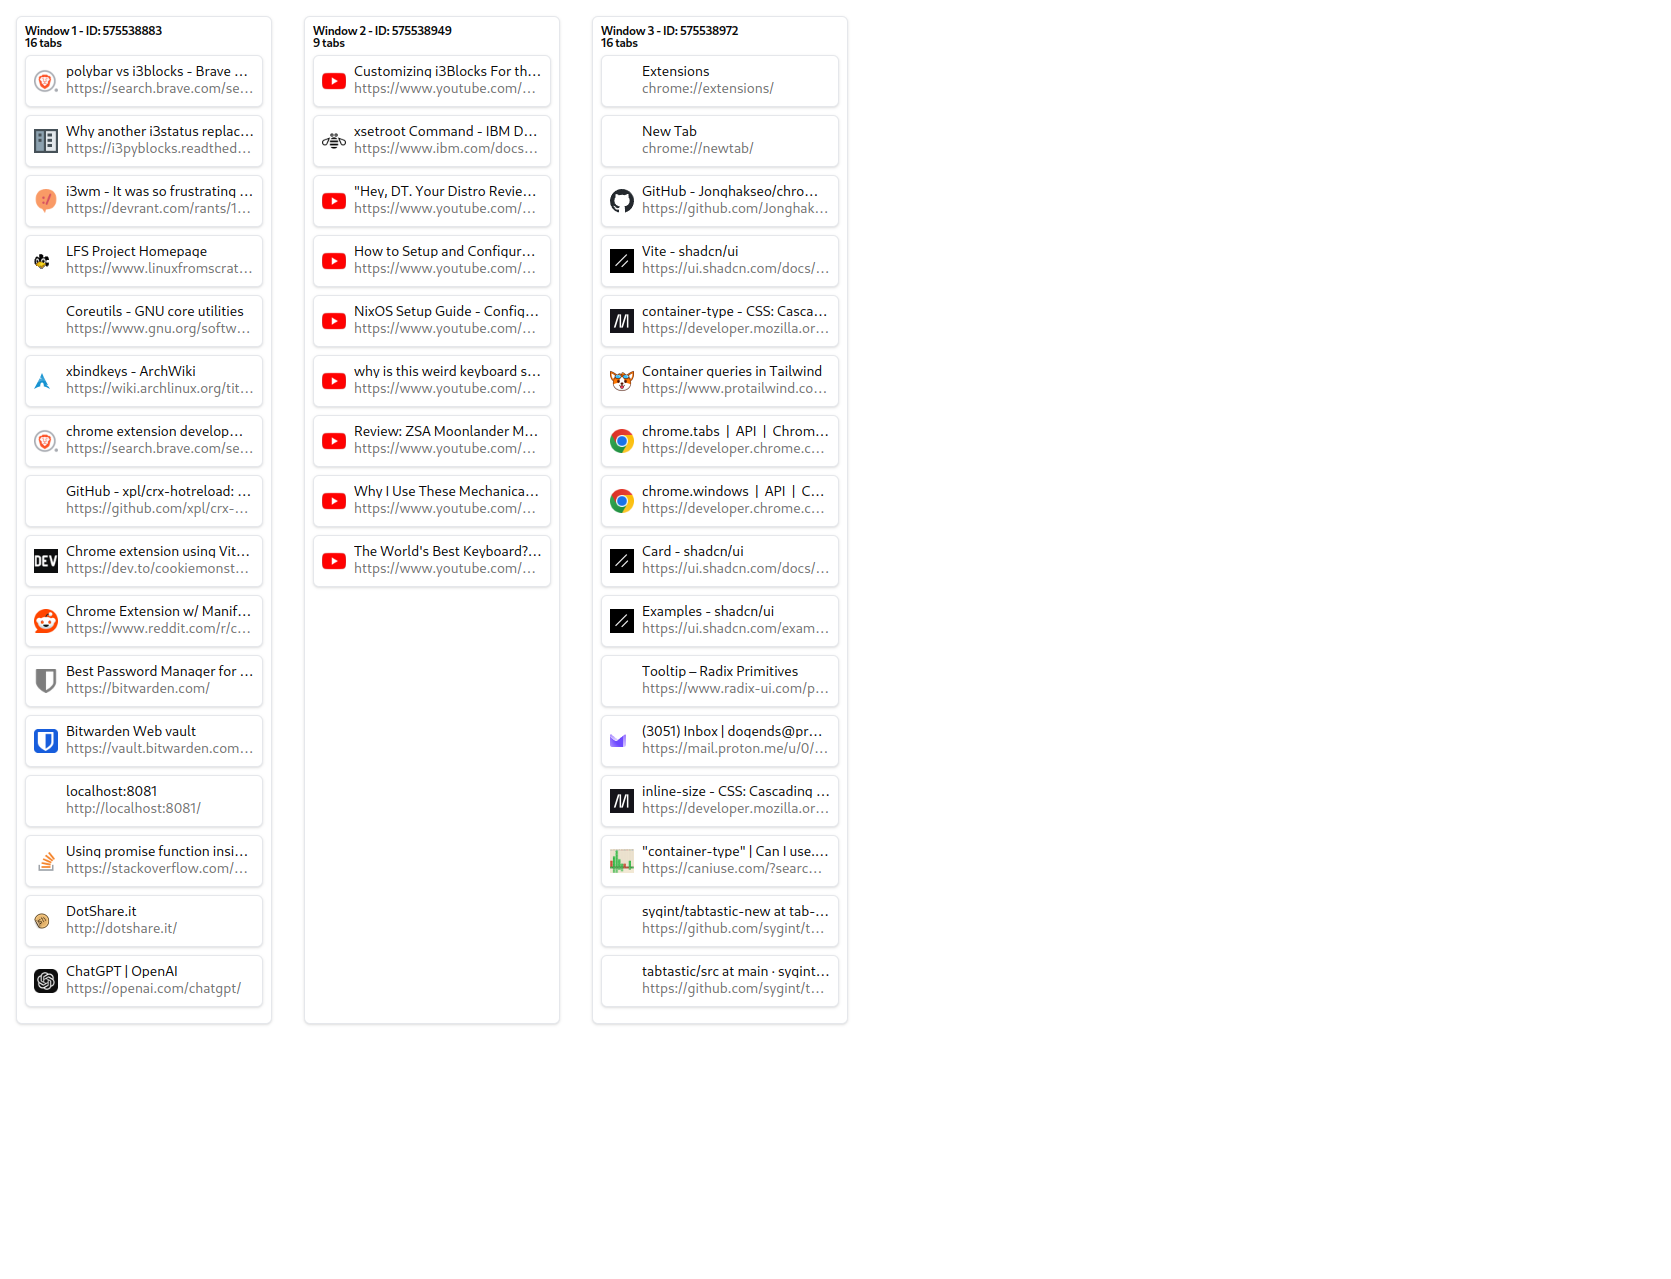
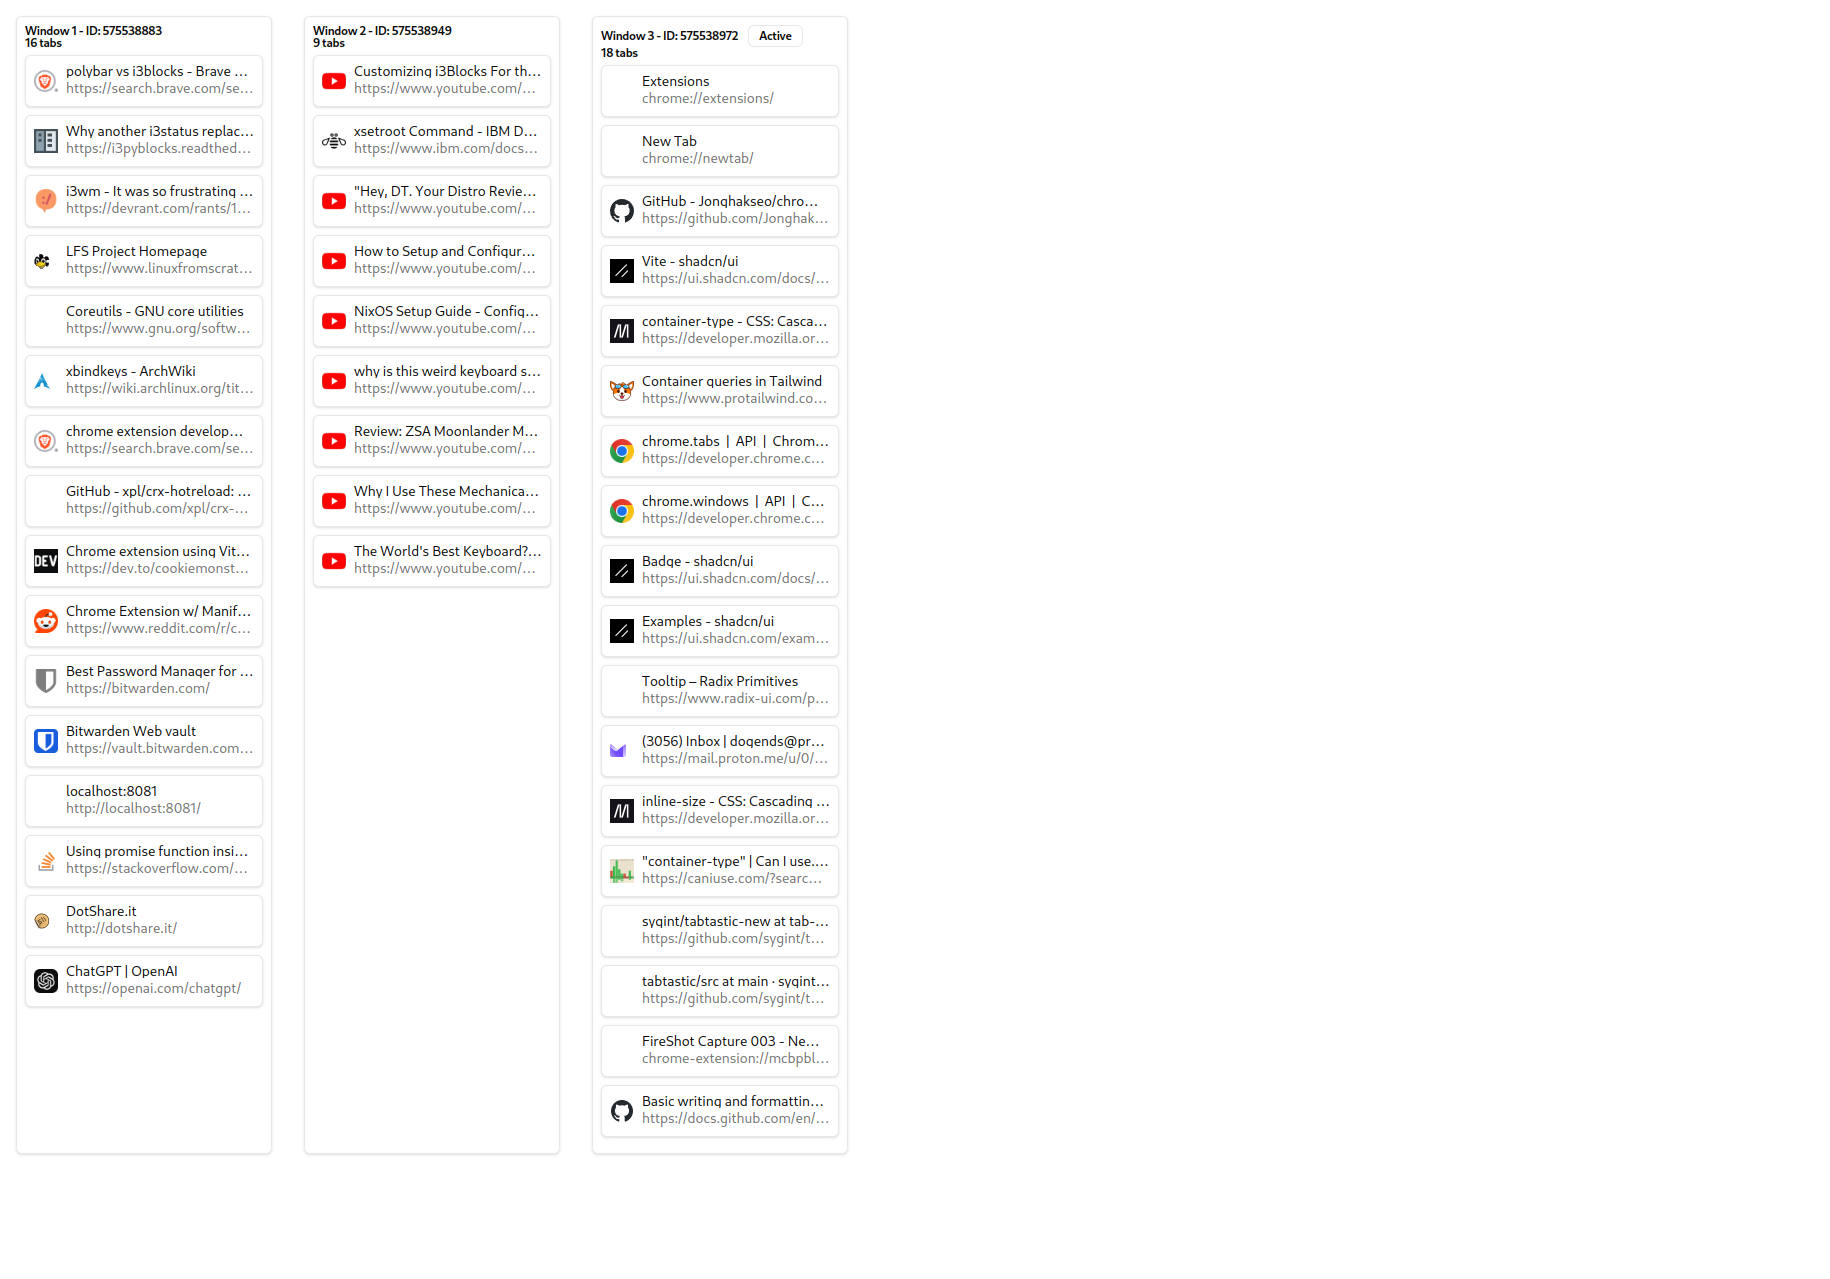
Add active window badge, remove obsolete code

Changed region(s): [[0.0, 0.0, 0.4979, 0.8843]]

diff --git a/pages/new-tab/src/components/ui/badge.tsx b/pages/new-tab/src/components/ui/badge.tsx
@@ -1,0 +1,29 @@
+import * as React from 'react';
+import { cva, type VariantProps } from 'class-variance-authority';
+
+import { cn } from '@/lib/utils';
+
+const badgeVariants = cva(
+  'inline-flex items-center rounded-md border px-2.5 py-0.5 text-xs font-semibold transition-colors focus:outline-none focus:ring-2 focus:ring-ring focus:ring-offset-2',
+  {
+    variants: {
+      variant: {
+        default: 'border-transparent bg-primary text-primary-foreground shadow hover:bg-primary/80',
+        secondary: 'border-transparent bg-secondary text-secondary-foreground hover:bg-secondary/80',
+        destructive: 'border-transparent bg-destructive text-destructive-foreground shadow hover:bg-destructive/80',
+        outline: 'text-foreground',
+      },
+    },
+    defaultVariants: {
+      variant: 'default',
+    },
+  },
+);
+
+export interface BadgeProps extends React.HTMLAttributes<HTMLDivElement>, VariantProps<typeof badgeVariants> {}
+
+function Badge({ className, variant, ...props }: BadgeProps) {
+  return <div className={cn(badgeVariants({ variant }), className)} {...props} />;
+}
+
+export { Badge, badgeVariants };

diff --git a/pages/new-tab/src/components/WindowList.tsx b/pages/new-tab/src/components/WindowList.tsx
@@ -1,4 +1,5 @@
 import { Card, CardHeader, CardTitle, CardContent } from '@/components/ui/card';
+import { Badge } from '@/components/ui/badge';
 
 import TabsList from './TabsList';
 
@@ -10,7 +11,12 @@ export default function WindowList({ windows }: { windows: any[] }) {
           <CardHeader>
             <CardTitle>
               <div>
-                Window {index + 1} - ID: {window.id}
+                Window {index + 1} - ID: {window.id}{' '}
+                {window.focused && (
+                  <Badge variant="outline" className="ml-2">
+                    Active
+                  </Badge>
+                )}
                 <br />
                 {window.tabs.length} tabs
               </div>

diff --git a/pages/new-tab/src/NewTab.tsx b/pages/new-tab/src/NewTab.tsx
@@ -9,13 +9,6 @@ import { t } from '@extension/i18n';
 import { useEffect, useState } from 'react';
 
 const NewTab = () => {
-  async function getCurrentTab() {
-    let queryOptions = { active: true, lastFocusedWindow: true };
-    // `tab` will either be a `tabs.Tab` instance or `undefined`.
-    let [tab] = await chrome.tabs.query(queryOptions);
-    return tab;
-  }
-
   const [browserWindows, setBrowserWindows] = useState<any[]>([]);
 
   useEffect(() => {
